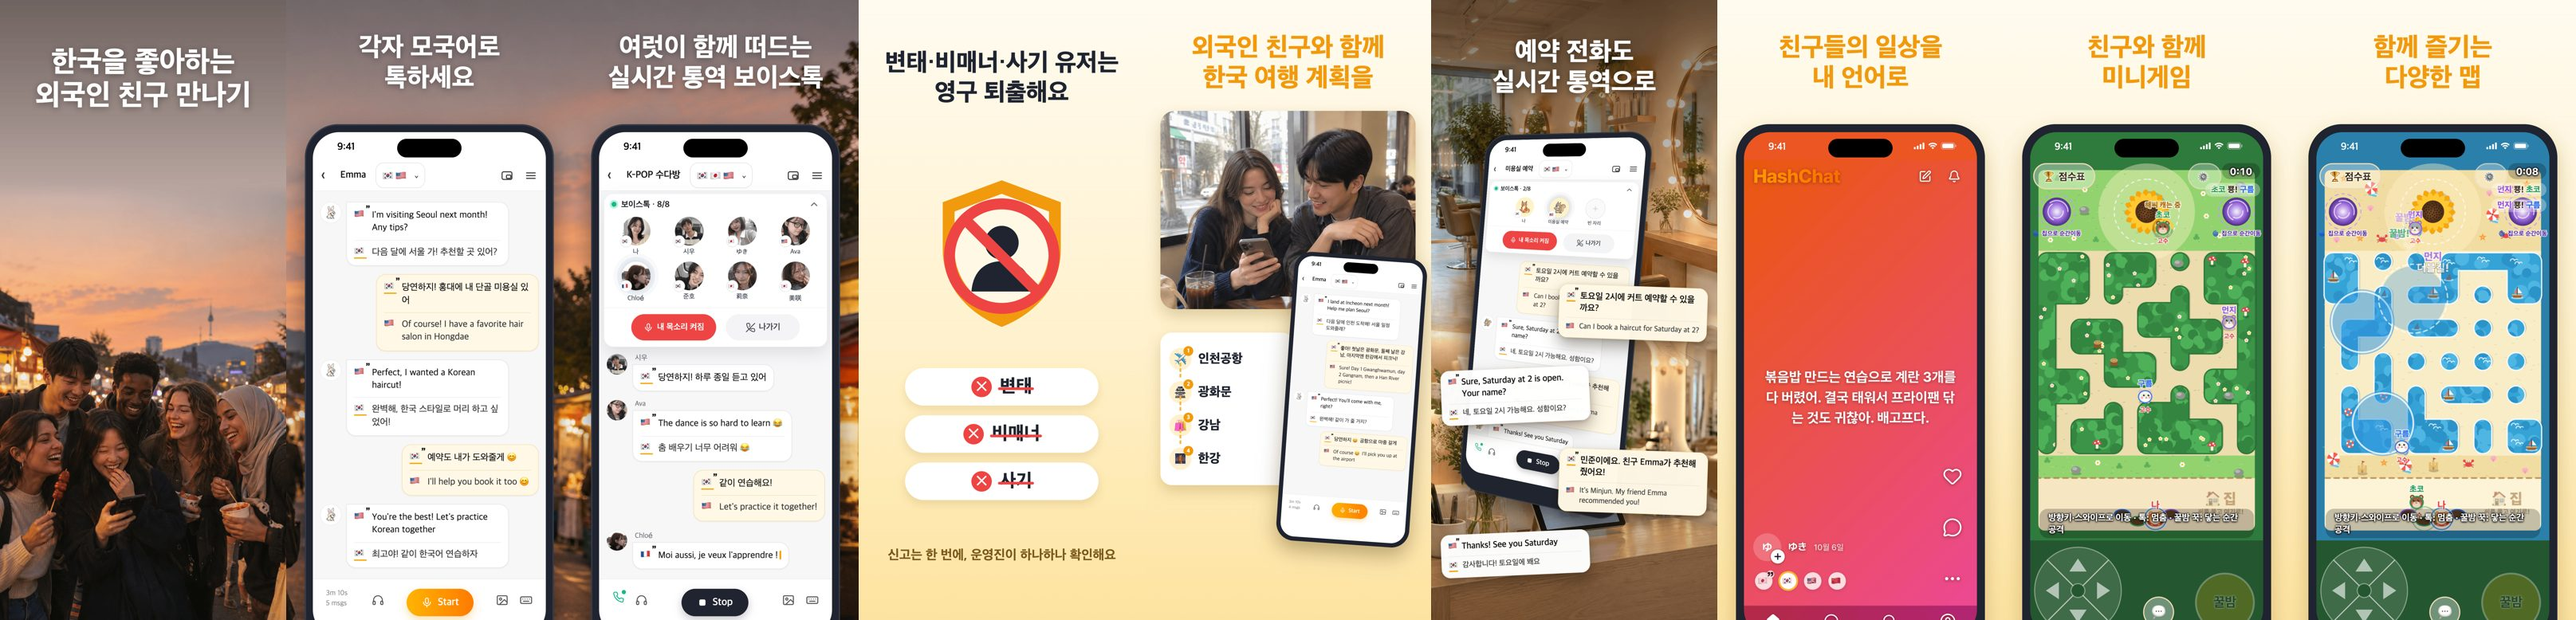
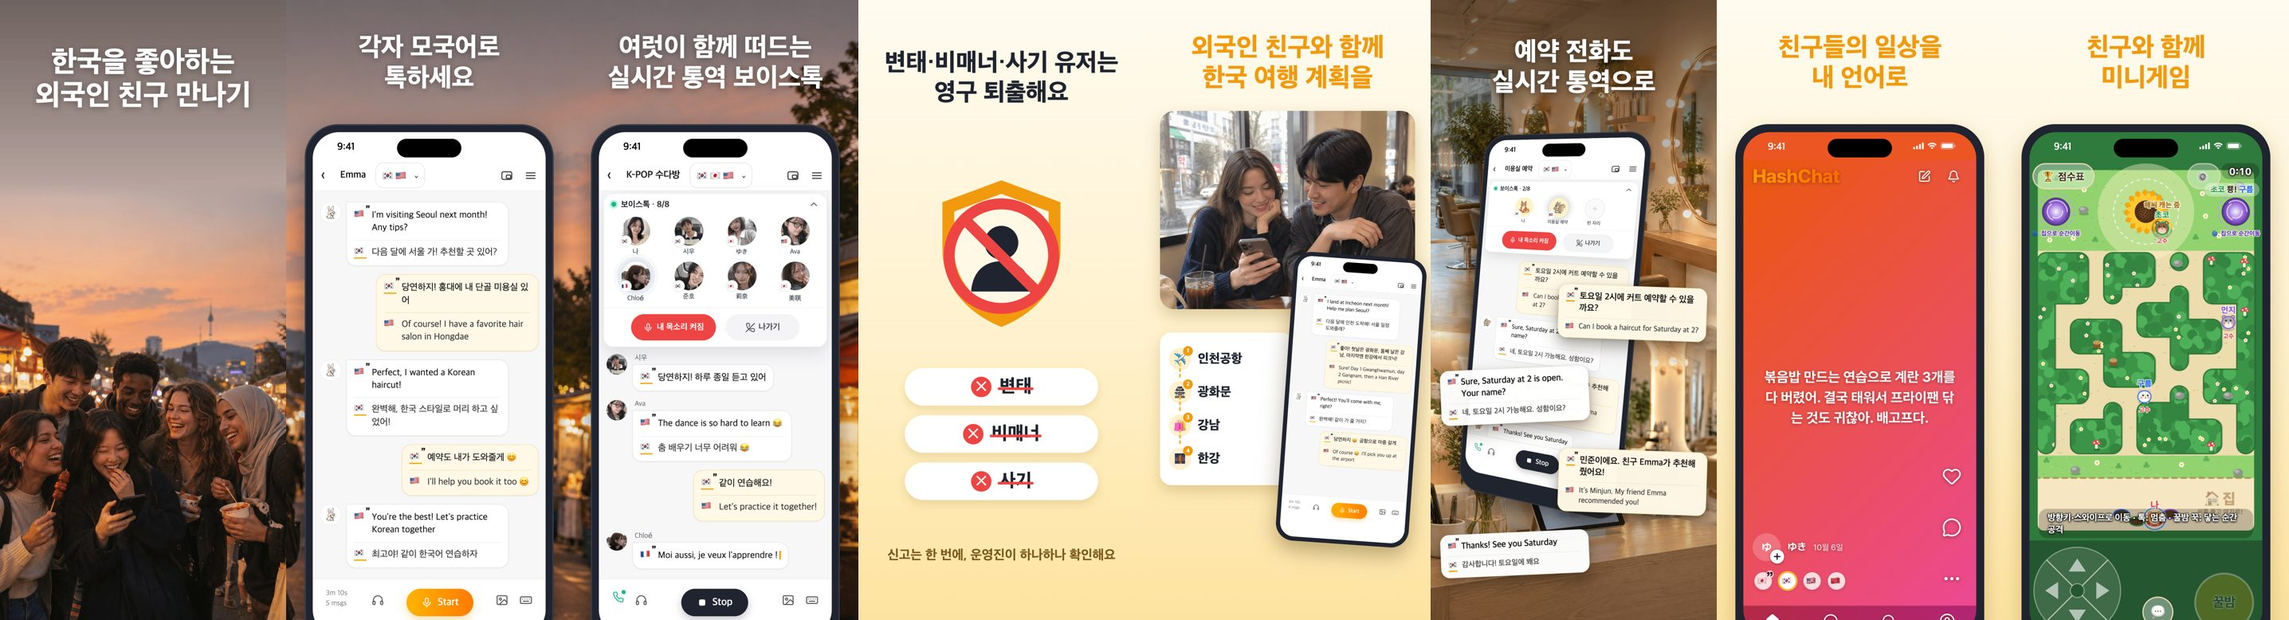
Store screenshots: drop the Hash Rush maps slide (8 slides on both stores)

diff --git a/mingle-app/rn/store-screenshots/README.md b/mingle-app/rn/store-screenshots/README.md
@@ -12,7 +12,6 @@ Source for the App Store and Google Play screenshot set: 8 slides in 15 language
 | 06 | An interpreted booking call to a hair salon | `render.py` scene (`booking` lines) over the `booking/` salon photos (`salon.jpg` above, `salon-desk.jpg` below, drawn with ChatGPT) |
 | 07 | A friend's post read in your language | app (`/{locale}/feed?postId=…`) |
 | 08 | Hash Rush (meadow) | live site, `?lang=` |
-| 09 | Hash Rush (beach). App Store only (`"iosOnly": true`): Google Play takes at most 8 phone screenshots | live site, `?lang=` |
 
 The positioning behind the captions is in `docs/positioning-korean-friends.md`. A viewer can have its own lines under `dm.json` `viewerOverrides.<lang>` (used for Korean, who talks with a foreign friend); `capture.mjs` and `render.py` read them before the shared lines. `chat.json` `partners` puts Korean first for every non-Korean viewer.
 
